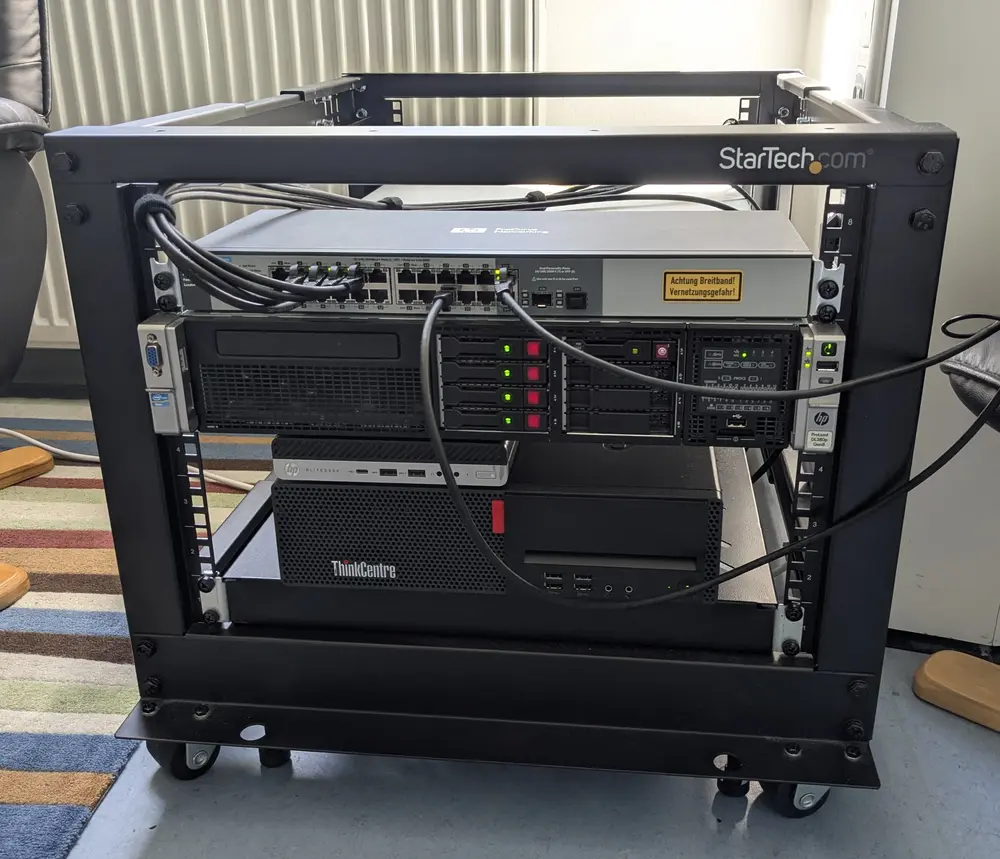
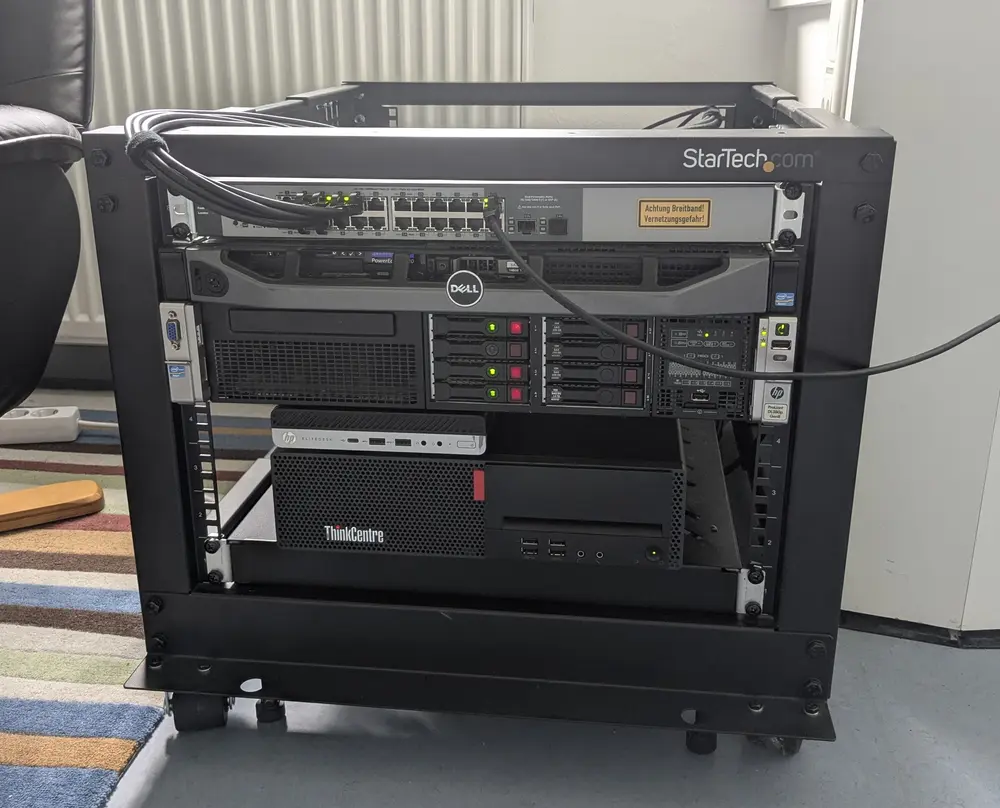
Added photography page and additional links

diff --git a/templates/pages/index.html b/templates/pages/index.html
@@ -4,13 +4,14 @@
 <li class="crumb">About</li>
 <li class="crumb"><a href="/homelab">Homelab</a></li>
 <li class="crumb"><a href="/portfolio">Portfolio</a></li>
+<li class="crumb"><a href="/photography">Photography</a></li>
 {% endblock %}
 
 {% block body %}
 <div class="container">
     <figure class="portrait">
-        <img src="../static/media/images/hike2.webp" alt="me irl"  title="me irl" class="portrait">
-        <figcaption class="portrait">Me hiking on the Brocken</figcaption>
+        <img src="../static/media/images/pfp.webp" alt="me irl"  title="me irl" class="portrait">
+        <figcaption class="portrait">This is me sitting by the Oker</figcaption>
     </figure>
 
     <div class="contact">
@@ -19,9 +20,16 @@
         <ul class="contact">
             <li>&#128236 <a href="mailto:vincent@reutiman.one">vincent@reutiman.one</a></li>
             <li><img src="../static/media/images/matrixwhite.webp"> <a href="https://matrix.to/#/@not_ham:matrix.sw1tchbl4d3.com">@not_ham</a></li>
-            <li><img src="../static/media/images/git.webp"> <a href="https://github.com/vxnxnt">@vxnxnt</a></li>
         </ul>
     </div>
+    <div class="contact">
+        <h3 class="contact">Links</h3>
+        <ul class="contact">
+            <li><img src="../static/media/images/kuma.svg" width="16" height="16"> <a href="https://status.reutiman.one">Uptime Kuma</a></li>
+            <li><img src="../static/media/images/git.webp"> <a href="https://github.com/vxnxnt">github.com/vxnxnt</a></li>
+        </ul>
+    </div>
+
 </div>
 
 <h2 class="portrait">
@@ -34,13 +42,14 @@
     And if you're interested in my technical abilities then feel free to navigate towards the portfolio page.<br>
     <br>
     In my free time I enjoy working on IT projects, such as this very website. But I also like reading, playing video games, or being outside and enjoying nature while hiking or canoeing, for example.
-    I even managed backpacking through the swedish wilderness for a whole week without dying!<br>
-    <br>
     When I find enough free time, I might even end up writing a few blog entries from time to time. Although my studies are already keeping me plenty busy as it is.<br>
     <br>
-    If you wish to contact me, you can write me an <a href="mailto:vincent@reutiman.one">Email</a> or send me a message via <a  href="https://matrix.to/#/@not_ham:matrix.sw1tchbl4d3.com">Matrix</a>.
-    I should usually manage to answer with a few hours if I'm not too busy.
-    While you're at it, you can also check me out on <a href="https://github.com/vxnxnt">Github</a> and see my horrible code for yourself.
+    If you want to glance at the uptime (or downtime (hopefully not)) of any of my services, you can head over to <a href="https://status.reutiman.one">status.reutiman.one</a>.
+    The services shown there are only the ones that are currently publicly reachable. Private ones, such as my DNS server or Stirling-PDF, aren't listed.<br>
+    <br>
+    If you want to contact me, you can just shoot me an <a href="mailto:vincent@reutiman.one">Email</a> or send me a message via <a  href="https://matrix.to/#/@not_ham:matrix.sw1tchbl4d3.com">Matrix</a>.
+    I should usually manage to respond within a few hours if I'm not too busy.
+    While you're at it, feel free to check out my <a href="https://github.com/vxnxnt">Github profile</a> and see my horrible code for yourself ;)
 </p>
 <br>
 {% endblock %}

diff --git a/templates/pages/homelab.html b/templates/pages/homelab.html
@@ -4,6 +4,7 @@
 <li class="crumb"><a href="/">About</a></li>
 <li class="crumb">Homelab</li>
 <li class="crumb"><a href="/portfolio">Portfolio</a></li>
+<li class="crumb"><a href="/photography">Photography</a></li>
 {% endblock %}
 
 {% block body %}
@@ -23,25 +24,26 @@
 
 <ul class="homelab">
     <li>HP ProCurve 1810G-24</li>
+    <li>Dell PowerEdge R620 with 384GB ECC RAM and two Intel Xeon E5-2650 v2</li>
     <li>HP ProLiant DL380p G8 with 128GB ECC RAM and two Intel Xeon E5-2670</li>
     <li>HP EliteDesk 800 G3 Mini with 8GB RAM and an Intel Core i3-7100</li>
-    <li>Lenovo ThinkCentre m710s with 64GB RAM and an Intel Core i5-7400</li>
+    <li>Lenovo ThinkCentre M710s with 64GB RAM and an Intel Core i7-7700</li>
 </ul>
 
 <h3 class="heading">
     The Software
 </h3>
 
-<p>Both the ProLiant and Thinkcentre are running in a ProxmoxVE Cluster with various containers and VMs.
-   At the same time, I have the EliteDesk running a Proxmox Backup Server.
-   My Homelab is connected via a Wireguard tunnel to my VPS, which is how I make most of my services public.<br>
+<p>
+   My Thinkcentre is currently responsible for running most things I host. That would include Pi-Hole with Unbound for DNS, Bitwarden,
+   Nextcloud, Immich, Jellyfin with hardware transcoding, and a Factiorio and Minecraft server.
+   Public access to some of these services is enabled via an Nginx proxy and a Wireguard VPN connected to my VPS. 
+   Aside from that, it's sporting two 1TB hard drives in a mirrored ZFS pool for backups and other NAS shenanigans.
+   And last but not least, I have a Debian VM responsible for hosting a CUPS print server to share my old Brother HL-2030 USB printer with the rest of my LAN.
+   Although my DL380p was previously in a Proxmox Cluster with my Thinkcentre, it's been retired for now, since I currently don't have a use for it at the moment.<br>
    <br>
-   For the moment, my Thinkcentre is only responsible for running Jellyfin with an Intel iGPU for Hardware Transcoding.
-   Perhaps in the future it will also run a TrueNAS VM.
-   In contrast, everything else I host tends to run on my DL380p, which includes services such as Pi-hole and Unbound for DNS.
-   Additionally, I also host a PaperMC and Factorio server to play with my friends and a Bitwarden server to host my passwords.
-   And last but not least, I have a Debian VM responsible for hosting a CUPS print server to share my old Brother HL-2030 USB printer with the rest of my LAN.<br>
+   For backups of my Proxmox containers and VMs, I'm running Proxmox Backup Server on my HP EliteDesk.
    <br>
-   In the near future I hope to get a second server to run TrueNAS with a RAID-Z1 pool on bare metal for Jellyfin.
+   As for the Poweredge R620, it's running TrueNAS SCALE bare metal with three 4TB hard drives in a RAID-Z pool, which is mostly just for hosting my Jellyfin media.<br>
 </p>
 {% endblock %}

diff --git a/templates/pages/portfolio.html b/templates/pages/portfolio.html
@@ -4,6 +4,7 @@
 <li class="crumb"><a href="/">About</a></li>
 <li class="crumb"><a href="/homelab">Homelab</a></li>
 <li class="crumb">Portfolio</li>
+<li class="crumb"><a href="/photography">Photography</a></li>
 {% endblock %}
 
 {% block body %}
@@ -18,6 +19,7 @@
 <p>
     Having built this website from scratch, I would say I'm decent with HTML and CSS, as well as shell scripting and Python.
     Furthermore, I'm also capable of coding in C and Java. All while using Git for version control, of course.
+    Although not software related, I've also done some work with VHDL as well.
 </p>
 <br>
 
@@ -26,10 +28,12 @@
 </h3>
 
 <p>
-    I'm very experienced with Linux, having used Arch and Debian for my daily drivers the past few years.
-    Aside from that, I've also dabbled with Alpine and I know my way around ProxmoxVE, since I mainly use that for my homelab servers.
-    I'm also no stranger to deploying and maintaining various kinds of software and services.
-    For example, I currently host an nginx, SMTP/IMAP and Wireguard server, among many others as well.
+    I'm very experienced with Linux, having used Arch and Debian as my daily drivers the past few years.
+    Aside from that, I've also dabbled with Alpine and I know my way around ProxmoxVE, since I mainly use that for my homelab.
+    I'm also no stranger to deploying and maintaining various kinds of software and services, which includes working with Docker. 
+    For example, I currently host an Nginx, SMTP/IMAP, Wireguard and Nextcloud server, among many others as well.<br>
+    <br>
+    For more information, consider taking a look at my <a href="/homelab">homelab</a> page.
 </p>
 <br>
 

diff --git a/templates/pages/photography.html b/templates/pages/photography.html
@@ -1,0 +1,43 @@
+{% extends 'main.html' %}
+
+{% block list %}
+<li class="crumb"><a href="/">About</a></li>
+<li class="crumb"><a href="/homelab">Homelab</a></li>
+<li class="crumb"><a href="/portfolio">Portfolio</a></li>
+<li class="crumb">Photography</li>
+{% endblock %}
+
+{% block body %}
+<h2 class="heading">
+    The Analog Gallery
+</h2>
+
+<p>
+  This is an active Work in Progress, more photos and a better design are on the way...<br>
+  I'm also currently in the process of rescanning all my film and adjusting the color balance, contrast and saturation on all pictures.
+  As for my gear, I'm using a Praktica Nova B and Edixa Reflex B-V with the Edixagon f/2 50mm, Pentacon f/2.8 135mm and Tokina f/5.6 300mm lenses.
+</p>
+<br>
+<div xmlns:cc="https://creativecommons.org/ns#">
+  <p class="center">
+    <em>
+      All work on this page, by
+      <a property="cc:attributionName"
+        rel="cc:attributionURL"
+        href="https://reutiman.one/">Vincent Reutiman
+      </a>
+      is licensed under <a rel="license" href="https://creativecommons.org/licenses/by-nc/4.0/">CC BY-NC 4.0</a>.
+    </em>
+  </p>
+</div>
+
+<div class="gallery">
+   {% for image in gallery %}
+      <div class="gallery-item">
+        <a target="_blank" href="../static/media/gallery/{{image.replace(".optimized.webp", ".jpg")}}">
+          <img src="../static/media/gallery/{{image}}" loading= "lazy">
+        </a>
+      </div>
+    {% endfor %}
+</div>
+{% endblock %}

diff --git a/templates/main.html b/templates/main.html
@@ -7,6 +7,8 @@
 	<link rel="stylesheet" type="text/css" href="/static/css/home.css">
 	<link rel="stylesheet" type="text/css" href="/static/css/contact.css">
 	<link rel="stylesheet" type="text/css" href="/static/css/homelab.css">
+	<link rel="stylesheet" type="text/css" href="/static/css/gallery.css">
+
 
 	{% block css %}{% endblock %}
 

diff --git a/static/css/gallery.css b/static/css/gallery.css
@@ -1,0 +1,21 @@
+div.gallery {
+  display: flex;
+  flex-wrap: wrap;
+  justify-content: center;
+  padding-bottom: 3em;
+}
+
+div.gallery-item {
+  margin: 0.5em;
+  width: 20em;
+  transition: 100ms ease-out;
+}
+
+div.gallery-item:hover {
+  transform: scale(1.05);
+}
+
+div.gallery-item img {
+  width: 100%;
+  height: auto;
+}

diff --git a/app.py b/app.py
@@ -1,5 +1,6 @@
 from flask import Flask, render_template, make_response, abort
-import os, random
+import os, random, subprocess
+from random import shuffle
 from datetime import date
 
 listofffiles = [i[:-5] if i.endswith(".html") else i for i in os.listdir("templates")]
@@ -24,7 +25,7 @@ def create_app():
         return render_template("pages/index.html", age = get_age())
 
     @app.route("/homelab")
-    def blog():
+    def homelab():
         return render_template("pages/homelab.html")
 
     @app.route("/contact")
@@ -32,8 +33,12 @@ def create_app():
         return render_template("pages/contact.html")
 
     @app.route("/portfolio")
-    def other():
+    def portfolio():
         return render_template("pages/portfolio.html")
+        
+    @app.route("/photography")
+    def photography():
+        return render_template("pages/photography.html", gallery = get_images())
 
     return app
 
@@ -44,3 +49,22 @@ def get_age():
     born = date(2004, 2, 23)
     age = today.year - born.year - ((today.month, today.day) < (born.month, born.day))
     return age
+
+def get_images():
+    gallery = []
+    path = "./static/media/gallery/"
+    for image in os.listdir(path):
+        if image.endswith(".optimized.webp"):
+            gallery.append(image)
+
+        elif image.endswith(".jpg"):
+            filename, extension = os.path.splitext(image)
+            thumbnail = image.replace(".jpg", ".optimized.webp")
+            thumbnail_path = "".join([path, thumbnail])
+            if not os.path.isfile(thumbnail_path):
+                image_path = "".join([path, image])
+                subprocess.run(["convert", image_path, "-resize", "600x400", "-rotate", "180", thumbnail_path])
+                gallery.append(thumbnail)
+
+    shuffle(gallery)
+    return gallery
